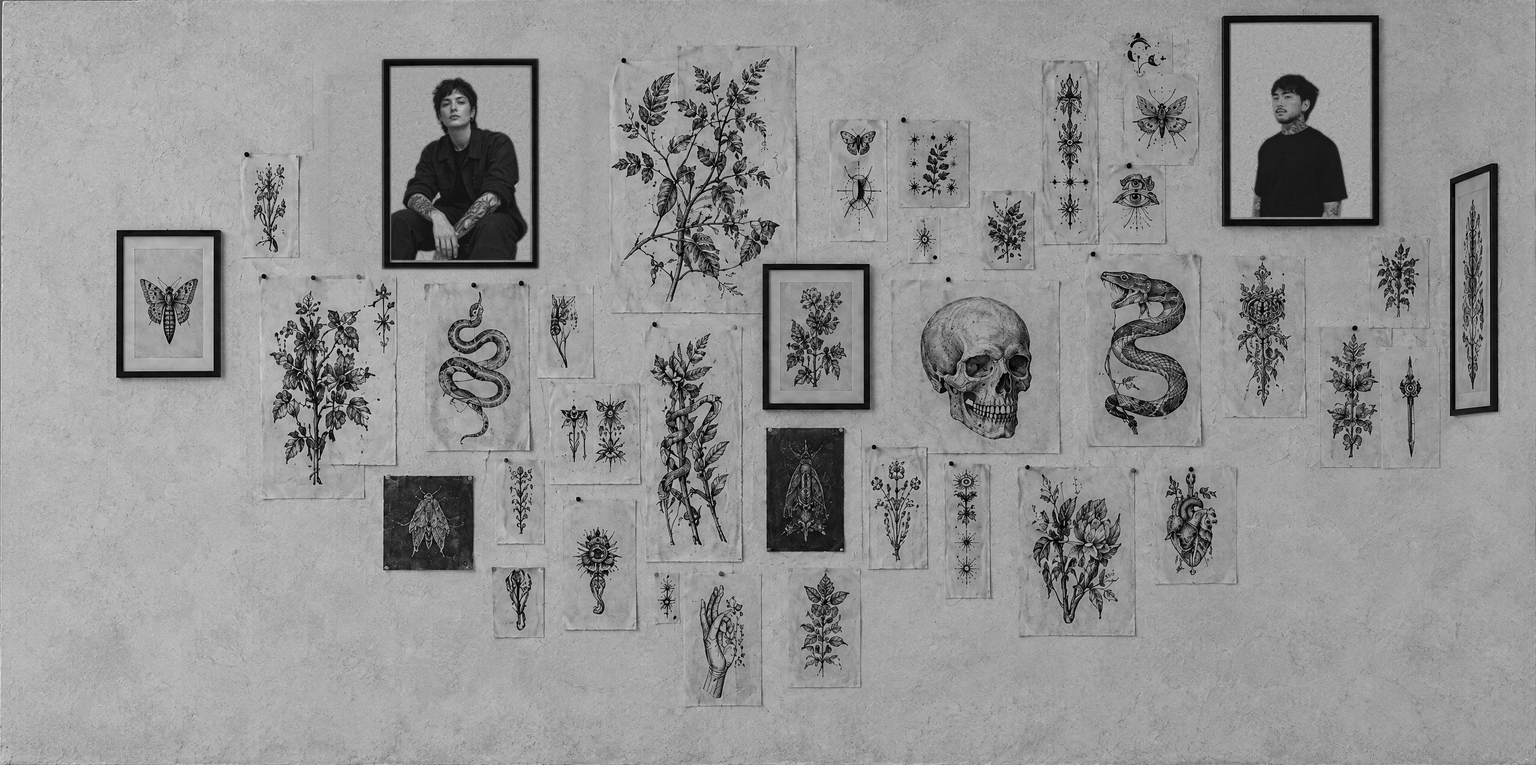
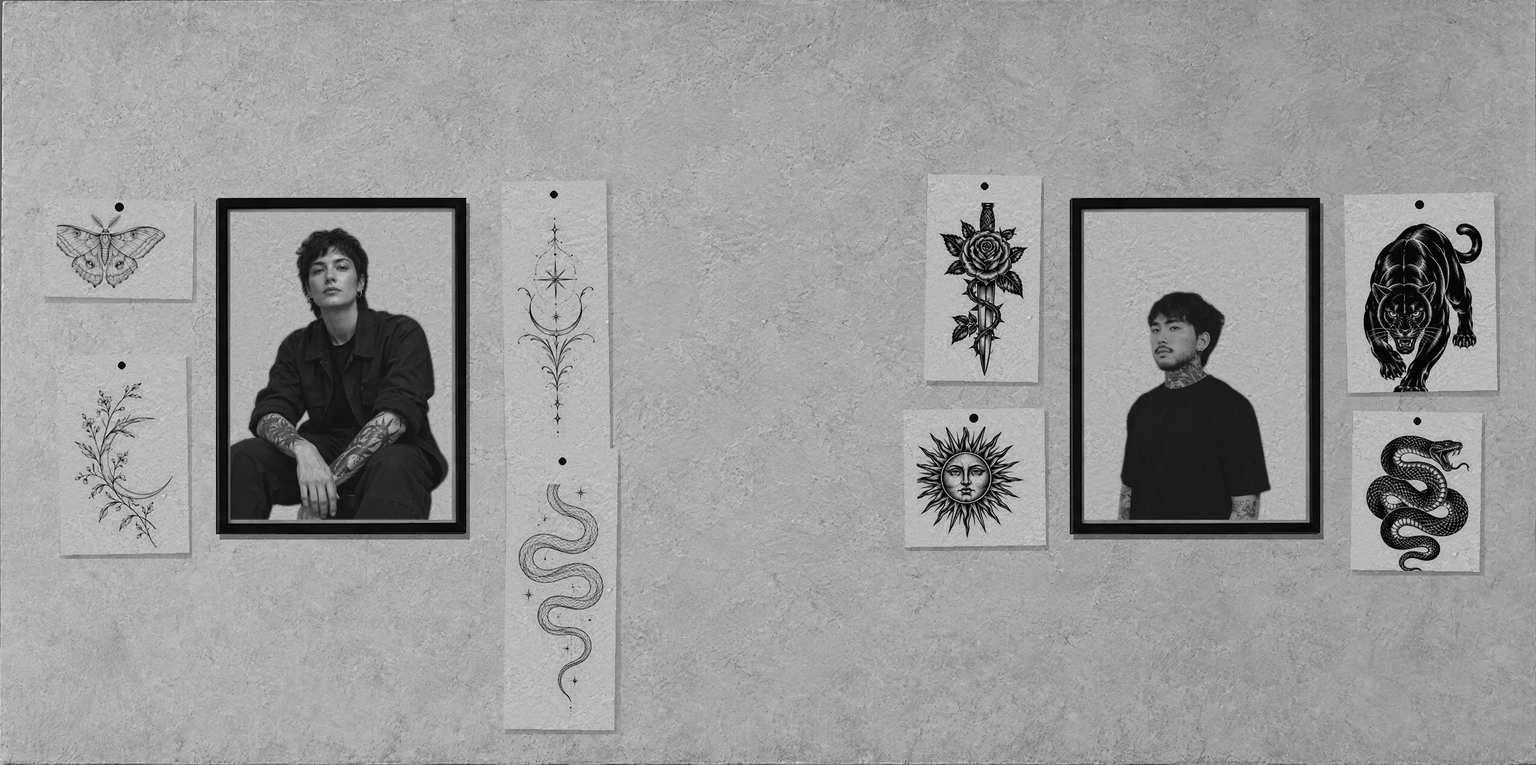
New flash wall, softer door transition, phone booking fix
- Nova left and Hiro right, each surrounded by stencils of their own designs,
  with an empty middle section; the sideways frame is gone
- Artist card no longer flips; Choose sits on the front
- Door halves have no hard seam line, and the storefront sits on the page
  grain on tall screens
- Phones: the session step calendar no longer draws over the time slots

diff --git a/script.js b/script.js
@@ -145,11 +145,11 @@
   const SCENE={aspect:2688/1520,wallAspect:2560/1276,wallStartW:.481,wallStartY:.525,wallEndFill:.8,
     glass:[[395,1030],[1659,2300]],glassY:[149,1278],door:[1092,1587],src:2688};
   const ARTISTS={
-    NOVA:{name:'Nova',index:'FIG. 04 / NOVA',style:'Fine line. Ornamental.',note:'Botanical forms, delicate detail and a little negative space.',portrait:'assets/artist-portrait.webp',portraitAlt:'Fictional tattoo artist Nova with tattoos on her arms',flash:'assets/nova-flash.png',flashAlt:'AI concept tattoo flash for Nova with botanical and ornamental designs',rect:[.2488,.0768,.102,.2751]},
-    HIRO:{name:'Hiro',index:'FIG. 05 / HIRO',style:'Blackwork. Illustrative.',note:'Bold silhouettes, deep black and stories drawn on skin.',portrait:'assets/artist-hiro.webp',portraitAlt:'Fictional tattoo artist Hiro with neck and arm tattoos',flash:'assets/hiro-flash.png',flashAlt:'AI concept tattoo flash for Hiro with bold blackwork and illustrative designs',rect:[.7957,.0204,.102,.2751]}
+    NOVA:{name:'Nova',index:'FIG. 04 / NOVA',style:'Fine line. Ornamental.',note:'Botanical forms, delicate detail and a little negative space.',portrait:'assets/artist-portrait.webp',portraitAlt:'Fictional tattoo artist Nova with tattoos on her arms',flash:'assets/nova-flash.png',flashAlt:'AI concept tattoo flash for Nova with botanical and ornamental designs',rect:[.1406,.2586,.1629,.4397]},
+    HIRO:{name:'Hiro',index:'FIG. 05 / HIRO',style:'Blackwork. Illustrative.',note:'Bold silhouettes, deep black and stories drawn on skin.',portrait:'assets/artist-hiro.webp',portraitAlt:'Fictional tattoo artist Hiro with neck and arm tattoos',flash:'assets/hiro-flash.png',flashAlt:'AI concept tattoo flash for Hiro with bold blackwork and illustrative designs',rect:[.6965,.2586,.1629,.4397]}
   };
   const ease=t=>t<.5?2*t*t:1-(-2*t+2)**2/2;
-  const SCENE_V='20261002a';
+  const SCENE_V='20261002b';
   const sceneImages=Object.fromEntries(['facade','wall','room'].map(name=>{const img=new Image();img.decoding='async';img.src=`assets/scene/${name}.webp?v=${SCENE_V}`;return [name,img];}));
   const sceneReady=Promise.all(Object.values(sceneImages).map(img=>img.decode().catch(()=>{})));
   function createScene(host,interactive){
@@ -169,23 +169,26 @@
       // Landscape: storefront covers the screen. Portrait: door centred, windows
       // run off the sides, page colour above and below.
       const Wc=vw/vh>=1?Math.max(vw,vh*SCENE.aspect):vw*1.5,Hc=Wc/SCENE.aspect,P=Wc;
-      // Landscape stops with floor and ceiling in view; portrait lets the wall run
-      // slightly past the screen edges so the two frames stay big enough to tap.
-      const fill=vw/vh>=1?SCENE.wallEndFill:1.1,r=SCENE.wallStartW*Wc/(fill*Math.min(Wc,vw));
+      // Landscape stops with floor and ceiling in view; portrait fits the whole wall
+      // edge to edge (the artist frames are large enough to tap at that size).
+      const fill=vw/vh>=1?SCENE.wallEndFill:0.98,r=SCENE.wallStartW*Wc/(fill*Math.min(Wc,vw));
       const Dw=Math.max(1.6*P,1.12*P/(1-r)-P),k0=P/(P+Dw),cEnd=(P+Dw)*(1-r);
       const Dr=Dw*1.35+.5*P,kr0=P/(P+Dr),coverEnd=Math.max(vw,vh*SCENE.aspect)*1.04;
       const roomW=Math.max(Wc/kr0,coverEnd*(P+Dr-cEnd)/P,vh*SCENE.aspect/kr0);
       const wallW=SCENE.wallStartW*Wc/k0;
-      g={vw,vh,ratio,Wc,Hc,P,Dw,Dr,cEnd,roomW,wallW,wallY:(SCENE.wallStartY-.5)*Hc/k0,
-        paper:getComputedStyle(document.documentElement).getPropertyValue('--paper').trim()||'#d8d8d4'};
+      g={vw,vh,ratio,Wc,Hc,P,Dw,Dr,cEnd,roomW,wallW,wallY:(SCENE.wallStartY-.5)*Hc/k0};
       dirty=true;draw();
     }
     function draw(){
       if(!g||!ready)return;
-      const {vw,vh,ratio,Wc,Hc,P,Dw,Dr,cEnd,roomW,wallW,wallY,paper}=g;
+      const {vw,vh,ratio,Wc,Hc,P,Dw,Dr,cEnd,roomW,wallW,wallY}=g;
       const progress=last,c=cEnd*ease(progress),cx=vw/2,cy=vh/2;
       ctx.setTransform(ratio,0,0,ratio,0,0);ctx.imageSmoothingQuality='high';
       ctx.clearRect(0,0,vw,vh);
+      // While the storefront is in view everything is drawn inside its photo only; on tall
+      // screens the page grain shows above and below it (the same grain as the doors).
+      const kf0=P/(P-c),clipF=c<.95*P;
+      if(clipF){ctx.save();ctx.beginPath();ctx.rect(cx-Wc*kf0/2,cy-Hc*kf0/2,Wc*kf0,Hc*kf0);ctx.clip();}
       ctx.fillStyle='#8d8c88';ctx.fillRect(0,0,vw,vh);
       const kr=P/(P+Dr-c),rw=roomW*kr,rh=rw/SCENE.aspect;
       ctx.drawImage(sceneImages.room,cx-rw/2,cy-rh/2,rw,rh);
@@ -197,8 +200,6 @@
         ctx.save();ctx.globalAlpha=1-clamp((c/P-.86)/.09,0,1);
         drawDoor(c,P,cx,cy,Wc,Hc);
         ctx.drawImage(sceneImages.facade,fx,fy,fw,fh);
-        // page colour above and below the photo on tall screens (hides the room)
-        ctx.fillStyle=paper;if(fy>0)ctx.fillRect(0,0,vw,fy+.5);if(fy+fh<vh)ctx.fillRect(0,fy+fh-.5,vw,vh-fy-fh+.5);
         ctx.fillStyle='rgba(255,255,255,.07)';
         SCENE.glass.forEach(([a,b])=>ctx.fillRect(fx+a*u,fy+SCENE.glassY[0]*u,(b-a)*u,(SCENE.glassY[1]-SCENE.glassY[0])*u));
         ctx.fillStyle='rgba(255,255,255,.92)';ctx.textAlign='center';ctx.textBaseline='middle';
@@ -206,6 +207,7 @@
         ctx.fillText('TATTOO',fx+fw*.272,fy+fh*.447);ctx.fillText('STUDIO',fx+fw*.736,fy+fh*.447);
         ctx.restore();
       }
+      if(clipF)ctx.restore();
       if(interactive){
         buttons.forEach(b=>{const [l,t,w,h]=ARTISTS[b.dataset.artist].rect;
           b.style.cssText=`left:${wx+l*ww}px;top:${wy+t*wh}px;width:${w*ww}px;height:${h*wh}px`;});
@@ -245,19 +247,16 @@
   // Floating artist card: native <dialog> gives Esc, focus trap and focus return.
   const dialog=document.querySelector('.artist-card-dialog');
   if(dialog&&filmScene){
-    const card=dialog.querySelector('[data-artist-card]'),q=sel=>dialog.querySelector(sel);
+    const q=sel=>dialog.querySelector(sel);
     let current=null;
     filmScene.buttons.forEach(button=>button.addEventListener('click',()=>{
-      const a=ARTISTS[button.dataset.artist];current=a;card.classList.remove('is-flipped');
+      const a=ARTISTS[button.dataset.artist];current=a;
       q('[data-card-portrait]').src=a.portrait;q('[data-card-portrait]').alt=a.portraitAlt;
       q('[data-card-index]').textContent=a.index;q('[data-card-name]').textContent=a.name;
       q('[data-card-style]').textContent=a.style;q('[data-card-note]').textContent=a.note;
-      q('[data-card-studies]').textContent=`STUDIES BY ${a.name.toUpperCase()}`;q('[data-card-style-back]').textContent=a.style;
-      q('[data-card-flash]').src=a.flash;q('[data-card-flash]').alt=a.flashAlt;
       q('[data-card-choose]').textContent=`CHOOSE ${a.name.toUpperCase()}`;
       dialog.showModal();
     }));
-    dialog.querySelectorAll('[data-card-flip]').forEach(b=>b.addEventListener('click',()=>card.classList.toggle('is-flipped')));
     dialog.querySelectorAll('[data-card-close]').forEach(b=>b.addEventListener('click',()=>dialog.close()));
     dialog.addEventListener('click',event=>{if(event.target===dialog)dialog.close();});
     q('[data-card-choose]').addEventListener('click',event=>{

diff --git a/index.html b/index.html
@@ -9,8 +9,8 @@
     <link rel="preconnect" href="https://fonts.googleapis.com" />
     <link rel="preconnect" href="https://fonts.gstatic.com" crossorigin />
     <link href="https://fonts.googleapis.com/css2?family=Barlow+Condensed:wght@400;500;600;700&family=Bodoni+Moda:opsz,wght@6..96,400;6..96,500;6..96,600;6..96,700&family=DM+Mono:wght@400;500&display=swap" rel="stylesheet" />
-    <link rel="stylesheet" href="styles.css?v=20261002a" />
-    <link rel="stylesheet" href="booking-experience.css?v=20261001k" />
+    <link rel="stylesheet" href="styles.css?v=20261002e" />
+    <link rel="stylesheet" href="booking-experience.css?v=20261002a" />
   </head>
   <body>
     <header class="topbar">
@@ -59,20 +59,8 @@
               <h3 id="artist-card-name" data-card-name></h3>
               <p class="artist-card-style" data-card-style></p>
               <p class="artist-card-note" data-card-note></p>
-              <button type="button" class="artist-card-flip" data-card-flip>SEE MY STYLES <span aria-hidden="true">TURN</span></button>
-              <p class="artist-card-fiction">Nova and Hiro are fictional artist studies created for this concept.</p>
-            </div>
-          </div>
-          <div class="artist-card-face artist-card-back">
-            <button type="button" class="artist-card-close" data-card-close aria-label="Close">CLOSE</button>
-            <div class="artist-card-body">
-              <p class="artist-card-label" data-card-studies></p>
-              <h4 data-card-style-back></h4>
-            </div>
-            <img class="artist-card-flash" data-card-flash src="" alt="" />
-            <div class="artist-card-actions">
               <a class="artist-card-choose" data-card-choose href="#booking"></a>
-              <button type="button" class="artist-card-unflip" data-card-flip>TURN BACK</button>
+              <p class="artist-card-fiction">Nova and Hiro are fictional artist studies created for this concept.</p>
             </div>
           </div>
         </div>
@@ -202,7 +190,7 @@
     </footer>
     <script src="assets/stone-geometry.js"></script>
     <script src="stone-fracture.js"></script>
-    <script src="script.js?v=20261002a"></script>
+    <script src="script.js?v=20261002e"></script>
     <script src="booking-experience.js?v=20261002a"></script>
   </body>
 </html>

diff --git a/styles.css b/styles.css
@@ -642,7 +642,7 @@ h1, h2, p { margin-top: 0; }
 .entry-portal { position:absolute; z-index:2; inset:0; pointer-events:none; opacity:var(--entry-opacity,0); }
 .stone-canvas { opacity:var(--stone-fade,1) !important; }
 /* Entrance scene: one canvas per scene (see createScene in script.js). */
-.entry-scene-host { position:absolute; inset:0; overflow:hidden; background:#8d8c88; }
+.entry-scene-host { position:absolute; inset:0; overflow:hidden; background:transparent; }
 .entry-scene-canvas { position:absolute; inset:0; width:100%; height:100%; display:block; opacity:0; transition:opacity .4s ease; }
 .entry-scene-host.is-ready .entry-scene-canvas { opacity:1; }
 .entry-portal .entry-scene-host { background:transparent; }
@@ -713,10 +713,10 @@ body, .cover-stage { background:var(--page-grain); background-attachment:fixed; 
 .cover-door { position:absolute; inset:0; background:var(--page-grain); will-change:transform; }
 .cover-door-left { clip-path:inset(0 50% 0 0); transform:translateX(calc(var(--door,0) * -50.5%)); }
 .cover-door-right { clip-path:inset(0 0 0 50%); transform:translateX(calc(var(--door,0) * 50.5%)); }
-/* Seam line and a soft shadow on each door's opening edge give the panels thickness. */
-.cover-door::after { content:""; position:absolute; top:0; bottom:0; width:60px; pointer-events:none; }
-.cover-door-left::after { left:calc(50% - 60px); background:linear-gradient(90deg,transparent,rgba(17,18,17,.14)); border-right:1px solid var(--ink); }
-.cover-door-right::after { left:50%; background:linear-gradient(270deg,transparent,rgba(17,18,17,.14)); border-left:1px solid var(--ink); }
+/* A very soft edge on each half, no hard line, so the doors simply glide apart. */
+.cover-door::after { content:""; position:absolute; top:0; bottom:0; width:140px; pointer-events:none; }
+.cover-door-left::after { left:calc(50% - 140px); background:linear-gradient(90deg,transparent,rgba(17,18,17,.04)); }
+.cover-door-right::after { left:50%; background:linear-gradient(270deg,transparent,rgba(17,18,17,.04)); }
 /* Storefront behind the doors settles from soft focus and a 6% zoom to sharp. */
 .entry-portal .entry-scene-canvas { filter:blur(var(--focus-blur,0px)); transform:scale(var(--focus-scale,1)); }
 @media (prefers-reduced-motion:reduce) { .cover-door { display:none; } }

diff --git a/booking-experience.css b/booking-experience.css
@@ -396,3 +396,8 @@
  .placement-prompt,.placement-caption,.booking-price-note { font-size:7px; }
  .region-chip-select { padding:4px; }
 }
+/* Phones: the calendar keeps its natural height instead of being squeezed to fit the screen
+   (it shrank to 0 on short phones and drew on top of the times); the step scrolls inside instead. */
+@media (max-width: 760px) {
+  .booking-step[data-booking-step="2"] { grid-template-rows: auto auto auto auto auto; align-content: start; overflow-y: auto; overscroll-behavior: contain; }
+}
